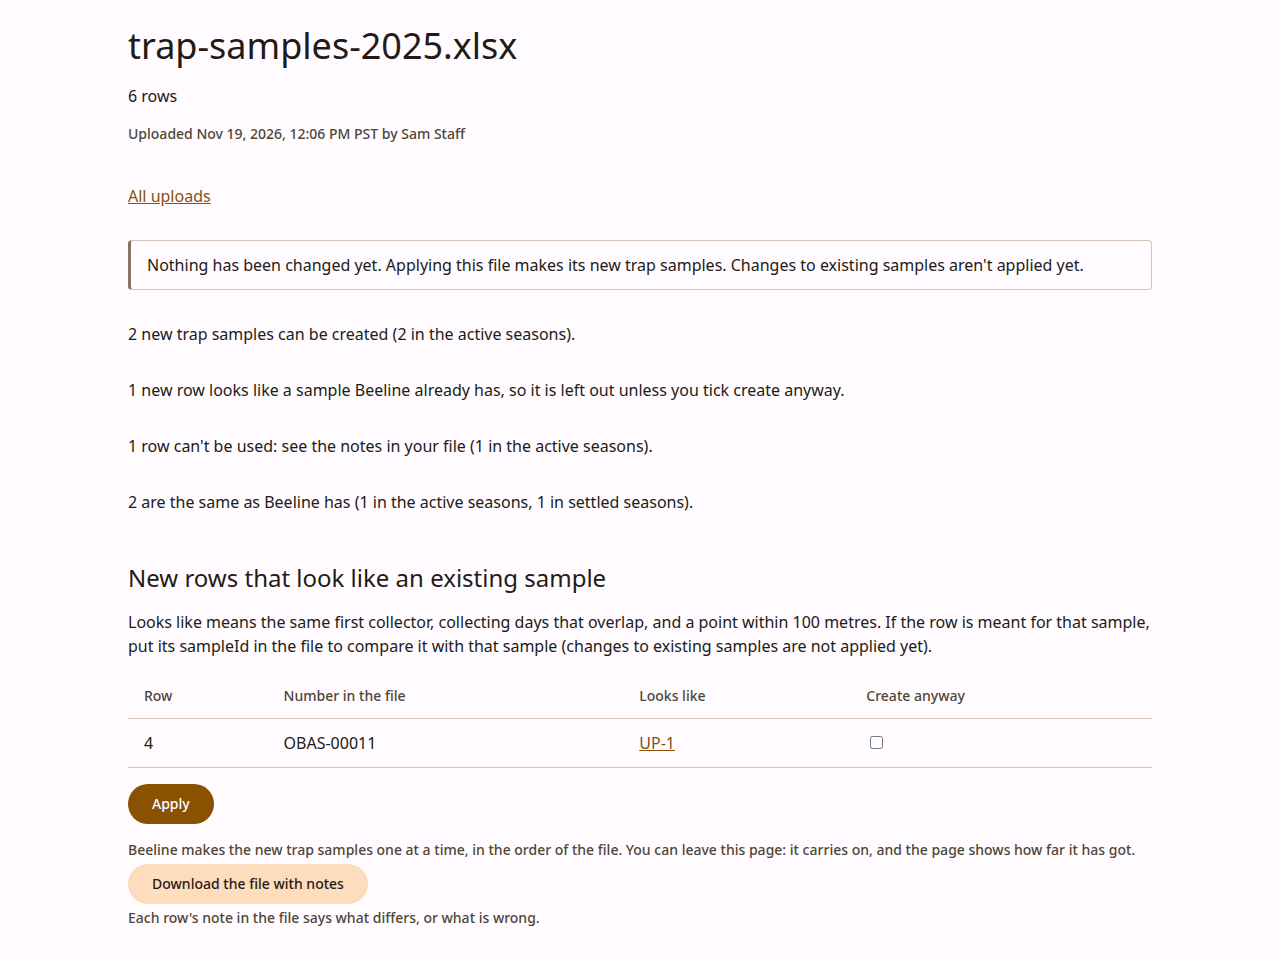
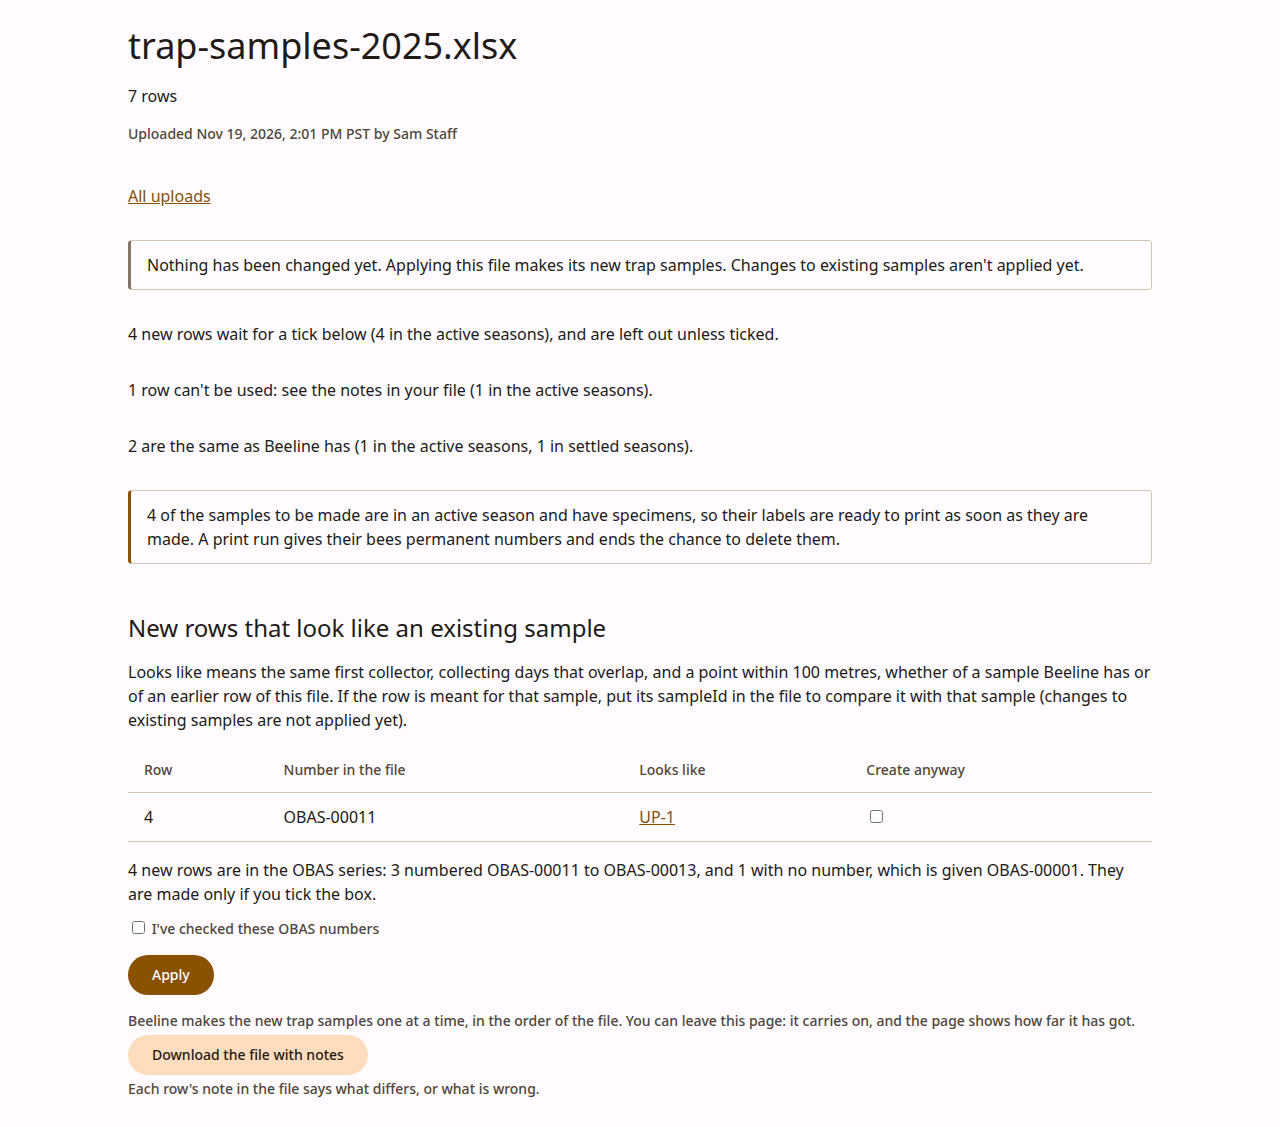
Say how many OBAS rows have a number and how many are given one, apart; screenshots of the current pages (beeline-kgyd.4.10)
Claude-Session: https://claude.ai/code/session_017BgNJGGymg187usyELRuAY

diff --git a/src/app/messages/en.ts b/src/app/messages/en.ts
@@ -2471,8 +2471,16 @@ export const en = {
       samplesTryAgain: "Try again",
       samplesOthersInNotes: "What the file says of its other rows, such as changes to existing samples or rows that can't be used, is in the file with notes.",
       /** The one box for the program's numbers, and the line above it. */
-      obasLine: (rows: number, lowest: string | null, highest: string | null, blank: number, from: string | null, to: string | null) =>
-        `${n(rows)} new ${rows === 1 ? "row has" : "rows have"} a number in the OBAS series${lowest === null ? "" : `, from ${lowest} to ${highest}`}${blank > 0 ? `; ${n(blank)} ${blank === 1 ? "has" : "have"} no number and ${blank === 1 ? "is" : "are"} given ${from === to ? from : `${from} to ${to}`}` : ""}. They are made only if you tick the box.`,
+      obasLine: (rows: number, lowest: string | null, highest: string | null, blank: number, from: string | null, to: string | null) => {
+        // `rows` counts every new row in the series, those with no number among them.
+        const numbered = rows - blank;
+        const range = (a: string | null, b: string | null) => (a === b ? `${a}` : `${a} to ${b}`);
+        const parts = [
+          ...(numbered > 0 ? [`${n(numbered)} numbered ${range(lowest, highest)}`] : []),
+          ...(blank > 0 ? [`${n(blank)} with no number, which ${blank === 1 ? "is" : "are"} given ${range(from, to)}`] : []),
+        ];
+        return `${n(rows)} new ${rows === 1 ? "row is" : "rows are"} in the OBAS series: ${parts.join(", and ")}. They are made only if you tick the box.`;
+      },
       obasBox: "I've checked these OBAS numbers",
       labelsReady: (count: number) =>
         `${n(count)} of the samples to be made are in an active season and have specimens, so their labels are ready to print as soon as they are made. A print run gives their bees permanent numbers and ends the chance to delete them.`,
